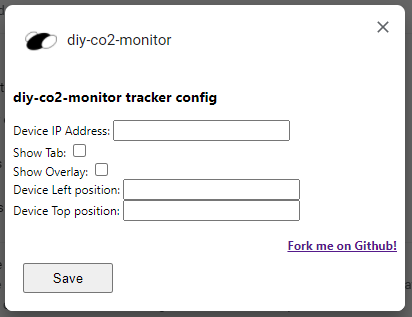
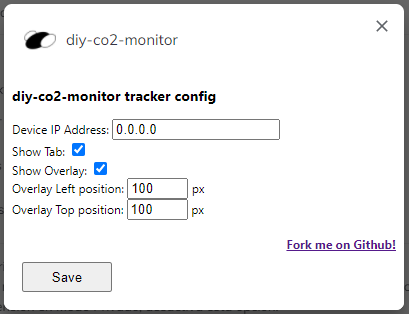
Click to navigate added

diff --git a/contentScript.js b/contentScript.js
@@ -64,9 +64,10 @@ function html_append(left, top) {
     });
 }
 
-function html_update(text) {
+function html_update(text, target) {
   document.getElementById("diy_text_id").innerHTML = text;
   if (setup == false) {
+    document.getElementById("diy_text_id").href = target;
     document.getElementById("diy_icon_id").src = logo_src;
     document.getElementById("diy_wrapper_id").addEventListener("mousedown", (mev) => {
       drag = new dragControl(mev.screenX, mev.screenY, document.getElementById("diy_wrapper_id"));
@@ -96,22 +97,25 @@ function html_update(text) {
 
 port.onMessage.addListener((msg, port) => {
   var text = "";
+  var target = "";
   switch (msg.request) {
     case "keep-alive":
       text = `CO2: ${wait_symbols[wait_counter++ % wait_symbols.length]} ppm`;
+      target = `http:\\${msg.config.target_ip}`;
       document.title = text;
       if (ready == false && msg.config.show_overlay == true) {
         html_append(msg.config.left_position, msg.config.top_position);
         ready = true;
       } else if (switcher == 0) {
-        html_update(text);
+        html_update(text, target);
       }
       if (switcher > 0) switcher -= 1;
       break;
 
     case "ppm-update":
       text = `CO2: ${msg.ppm} ppm`;
-      html_update(text);
+      target = `http:\\${msg.target_ip}`;
+      html_update(text, target);
       if (switcher < 65535) switcher += 2;
       break;
 

diff --git a/options.html b/options.html
@@ -21,15 +21,21 @@ WHETHER IN AN ACTION OF CONTRACT, TORT OR OTHERWISE, ARISING FROM, OUT OF OR IN 
       a {
         float: right;
       }
+      input.ip {
+        max-width: 12em;
+      }
+      input.px {
+        max-width: 4em;
+      }
     </style>
   </head>
   <body>
     <h3>diy-co2-monitor tracker config</h3>
-    <span>Device IP Address: </span><input id="target_ip" type="text" /><br />
+    <span>Device IP Address: </span><input id="target_ip" type="text" class="ip" /><br />
     <span>Show Tab: </span><input id="show_tab" type="checkbox" /><br />
     <span>Show Overlay: </span><input id="show_overlay" type="checkbox" /><br />
-    <span>Device Left position: </span><input id="left_position" type="number" /><br />
-    <span>Device Top position: </span><input id="top_position" type="number" /><br />
+    <span>Overlay Left position: </span><input id="left_position" type="number" class="px" /> px<br />
+    <span>Overlay Top position: </span><input id="top_position" type="number" class="px" /> px<br />
     <br />
     <b><a href="https://github.com/oskrs111/diy-co2-monitor" target="_blank">Fork me on Github!</a></b>
     <br />

diff --git a/options.js b/options.js
@@ -24,6 +24,7 @@ function save_options() {
       show_tab: show_tab,
       left_position: left_position,
       top_position: top_position,
+      init: true,
     },
     function () {
       var status = document.getElementById("status");
@@ -43,8 +44,17 @@ function restore_options() {
       show_overlay: "",
       left_position: "",
       top_position: "",
+      init: "",
     },
     function (items) {
+      if (items.init != true) {
+        items.target_ip = "0.0.0.0";
+        items.show_tab = true;
+        items.show_overlay = true;
+        items.left_position = 100;
+        items.top_position = 100;
+      }
+
       document.getElementById("target_ip").value = items.target_ip;
       document.getElementById("show_tab").checked = items.show_tab;
       document.getElementById("show_overlay").checked = items.show_overlay;

diff --git a/template.html b/template.html
@@ -36,13 +36,13 @@ WHETHER IN AN ACTION OF CONTRACT, TORT OR OTHERWISE, ARISING FROM, OUT OF OR IN 
   }
 
   #diy_icon_span_id {
-    width: 48px;
+    width: 38px;
     margin-left: 24px;
   }
   #diy_text_id {
-    width: 148px;
+    width: 100px;
   }
 </style>
 <div id="diy_wrapper_id" class="diy_wrapper diy_noselect" style="left: 25px; top: 25px">
-  <span id="diy_icon_span_id"><img id="diy_icon_id" /></span><span id="diy_text_id"></span>
+  <span id="diy_icon_span_id"><img id="diy_icon_id" /></span><a id="diy_text_id" href="" target="blank"></a>
 </div>

diff --git a/background.js b/background.js
@@ -99,7 +99,7 @@ function fetch_data() {
             var data = JSON.parse(text);
             update_title(data.ppm);
             try {
-              _port.postMessage({ request: "ppm-update", ppm: data.ppm });
+              _port.postMessage({ request: "ppm-update", ppm: data.ppm, target_ip: _items.target_ip });
             } catch (err) {}
           })
           .catch((err) => {
